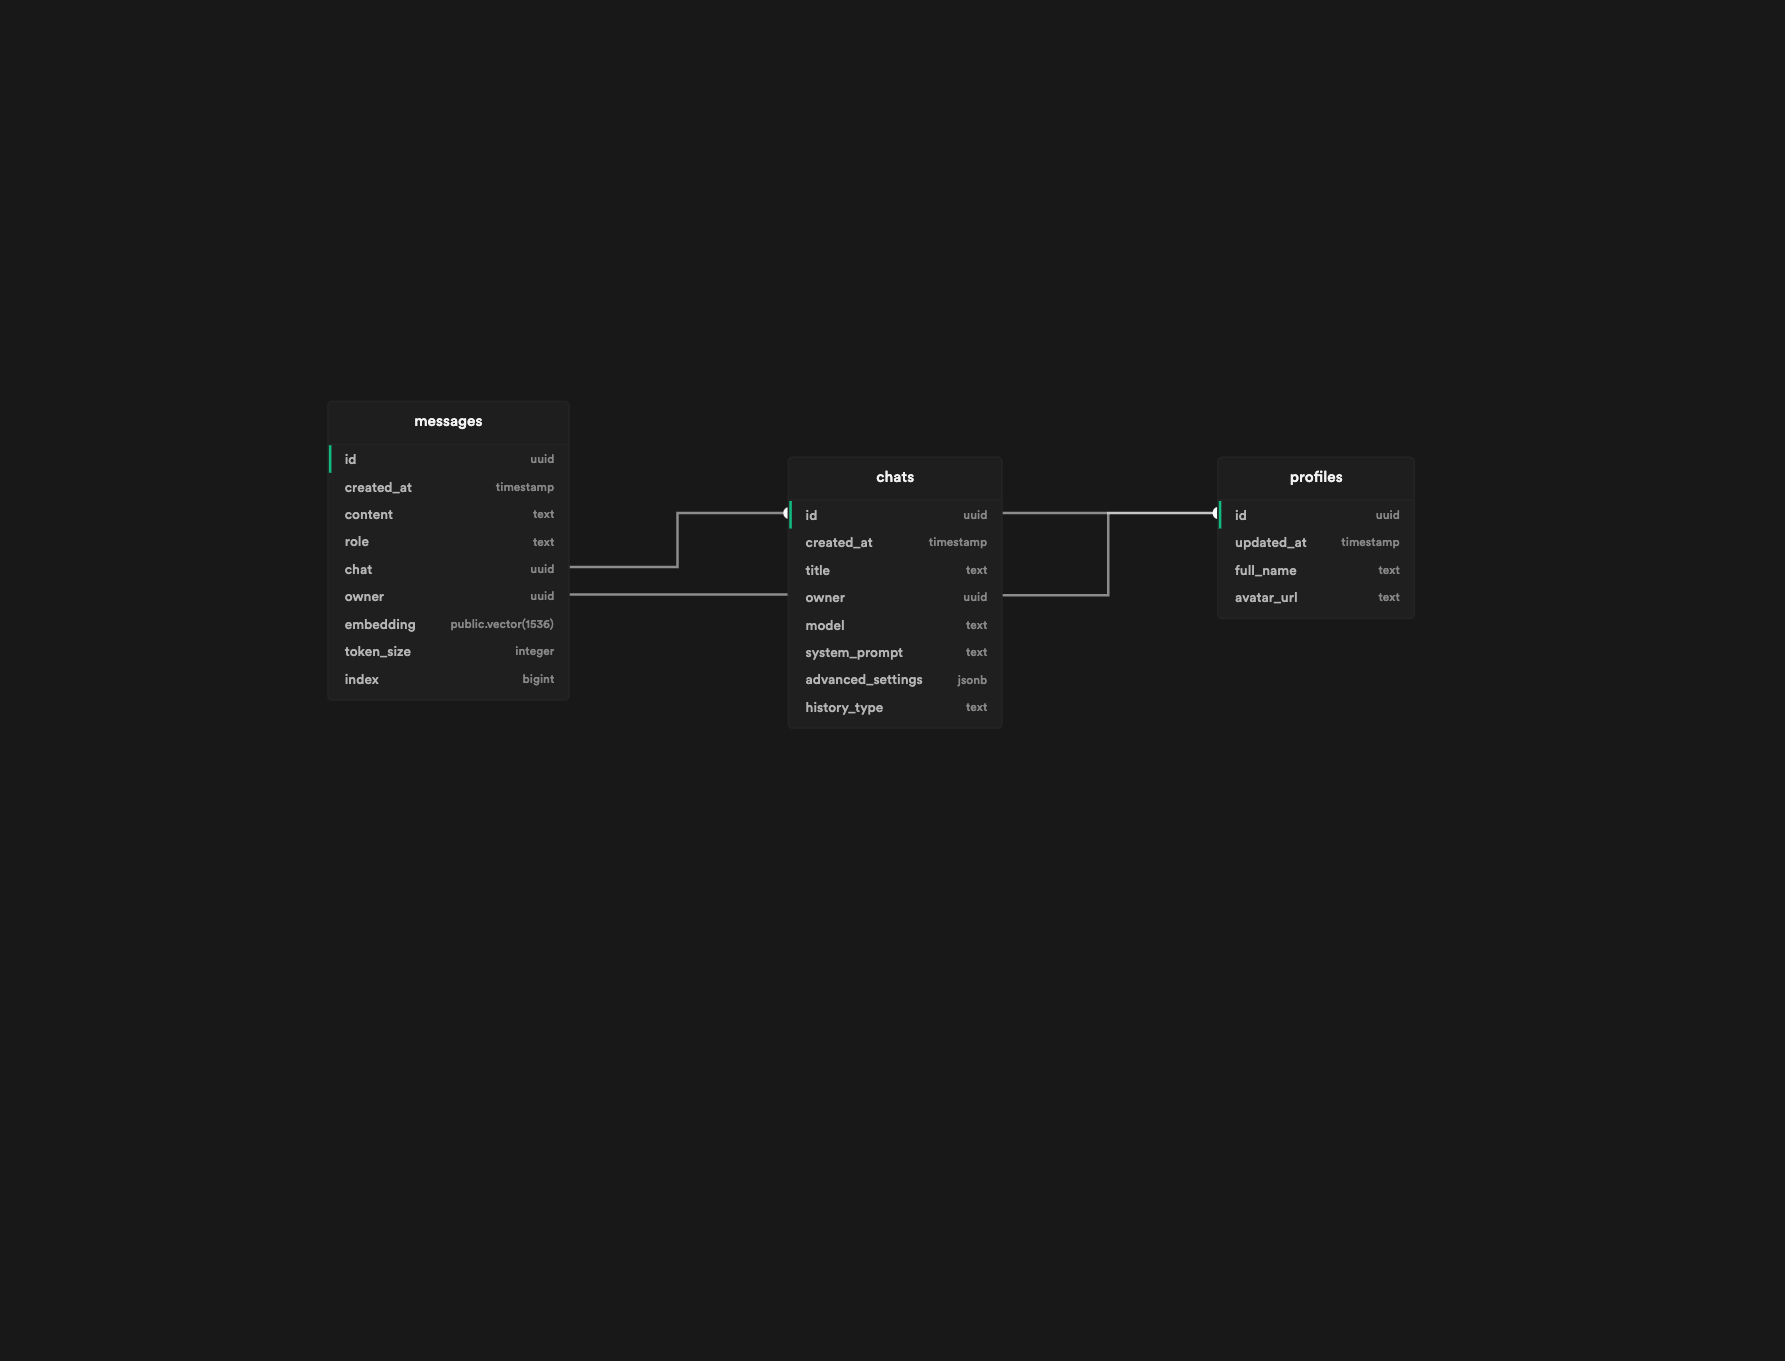
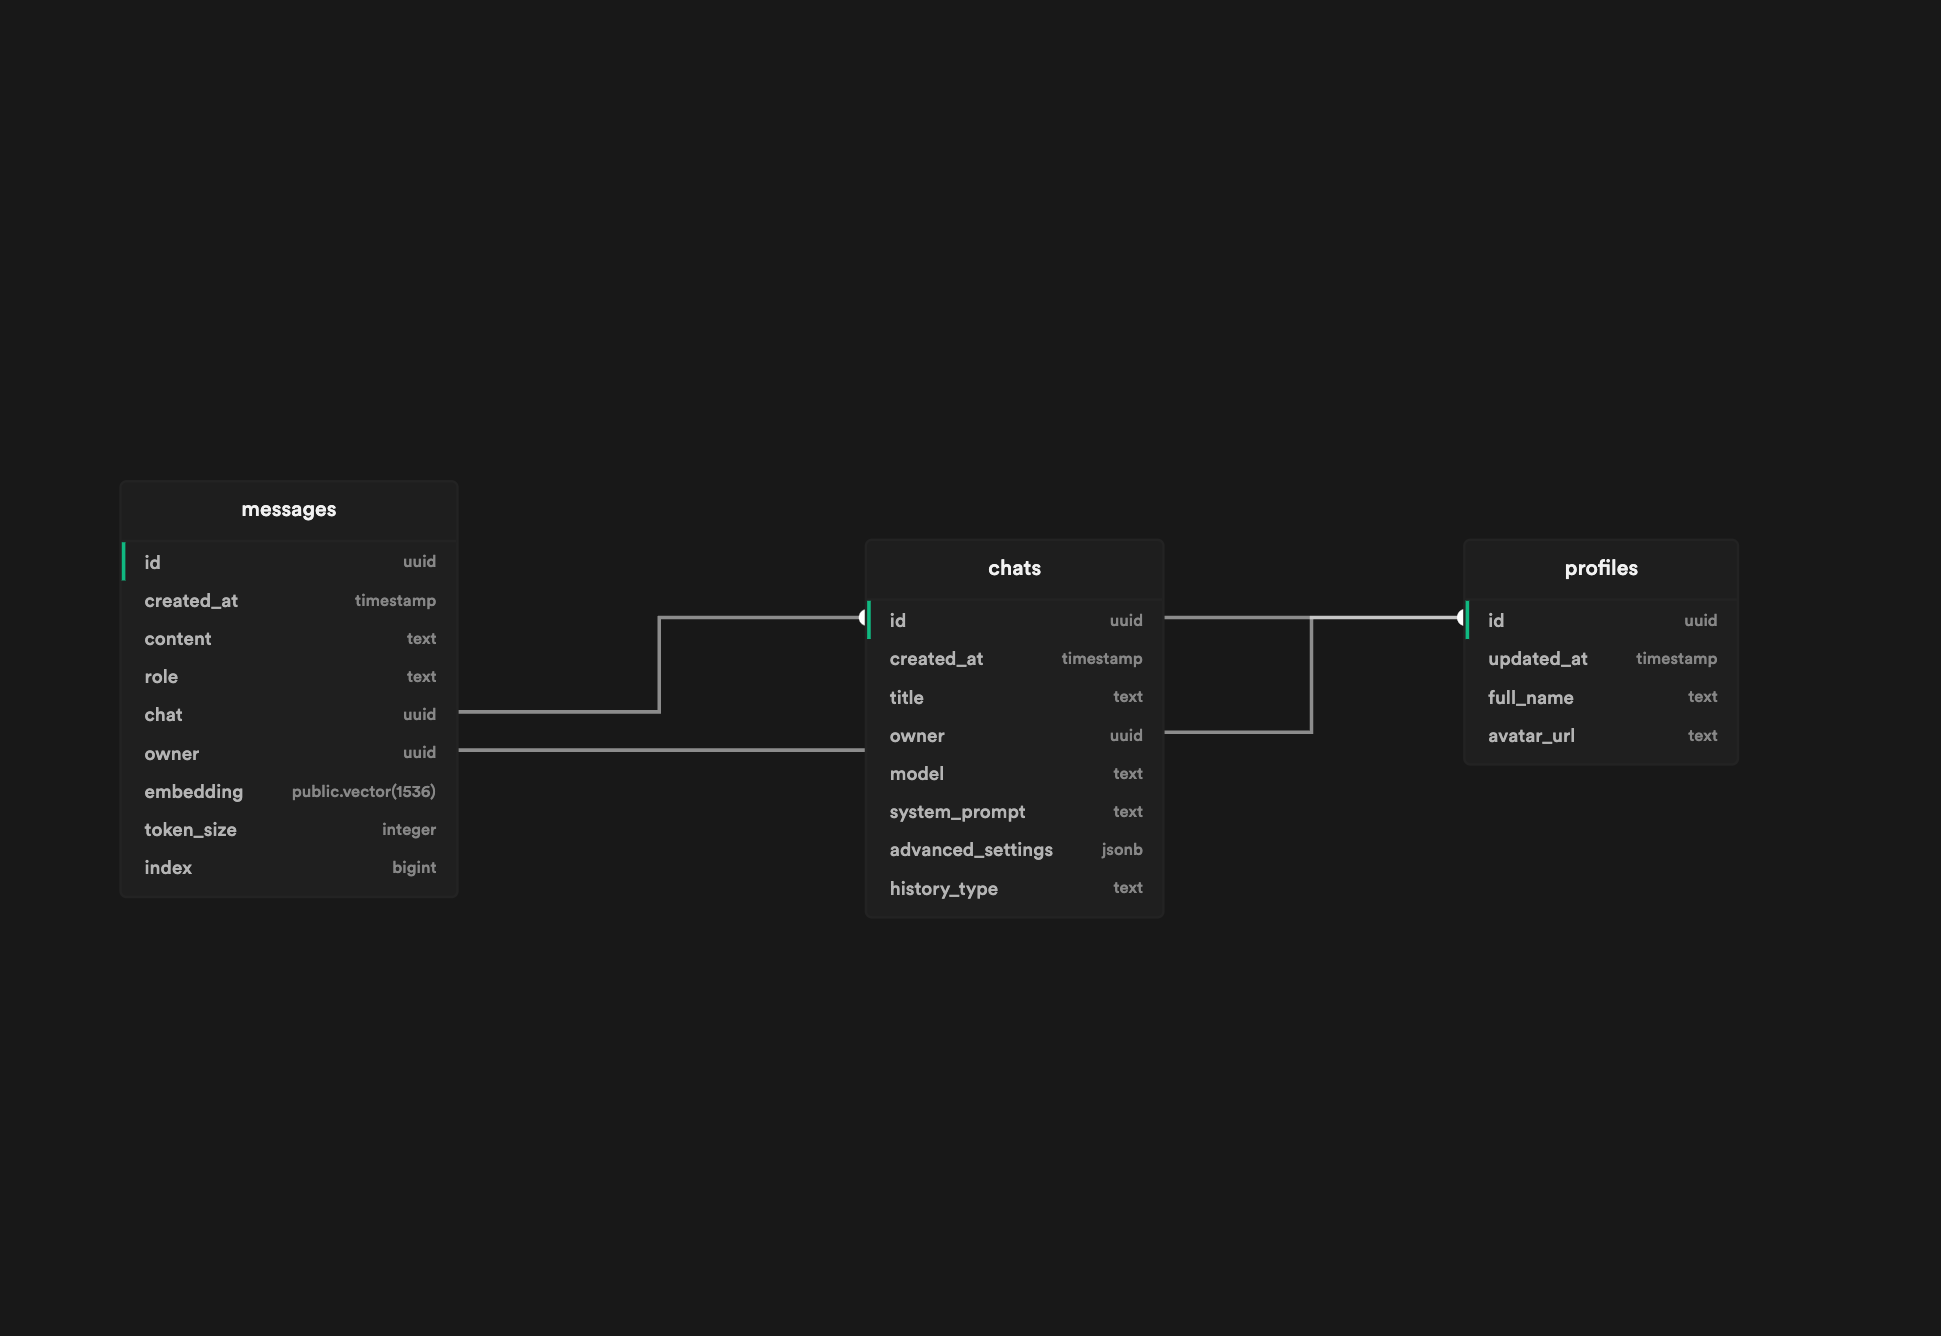
docs:update readme.md, new screenshot for database schema, new sql function for creating tables

diff --git a/atoms/chat.ts b/atoms/chat.ts
@@ -321,7 +321,7 @@ export const addMessageAtom = atom(
     // Scroll down after insert
     scrollDown();
 
-    // Check If Token Size is over 4000
+    // Check If Token Size is Exceeded
     const tokenSizeLimitExceeded = get(tokenSizeLimitAtom).isBeyondLimit;
 
     if (tokenSizeLimitExceeded || get(historyTypeAtom) === "global") {

diff --git a/README.md b/README.md
@@ -37,13 +37,14 @@ You must create 3 tables in your supabase project:
 
 ![makr.AI](./public/supbase_schema.png)
 
-As you can see in messages table, there is column called `embedding`. This column is used for storing the vector representation of the message. You can create this column via dashboard or via SQL query. Before creating this column, you must enable the `pg_vector` extension.
+You can create all the tables you need with the `sql function` that I cretead in the `sql` folder of the repo. You can use the `create-tables.sql` file in the `sql` folder of the repo to create the tables. Remember that you must enable the `pg_vector` extension before creating the tables.
 
 After you create the embedding column, you should create an `index` based on this column. You can use the `create-index.sql` file in the `sql` folder of the repo to create the index.
 
 Finally, you must create a sql function called `search-messages` in your Supabase project. You can use the `search-messages.sql` file in the `sql` folder of the repo to create the function.
 
-In order to learn more about this you can check this [tutorial](https://youtu.be/yrXLvCB0ByA).
+Project Setup [tutorial](https://youtu.be/yrXLvCB0ByA).
+Longterm Memory for ChatGPT [tutorial](https://youtu.be/trReGNOh2oM).
 
 **2. Clone The Repo**
 
